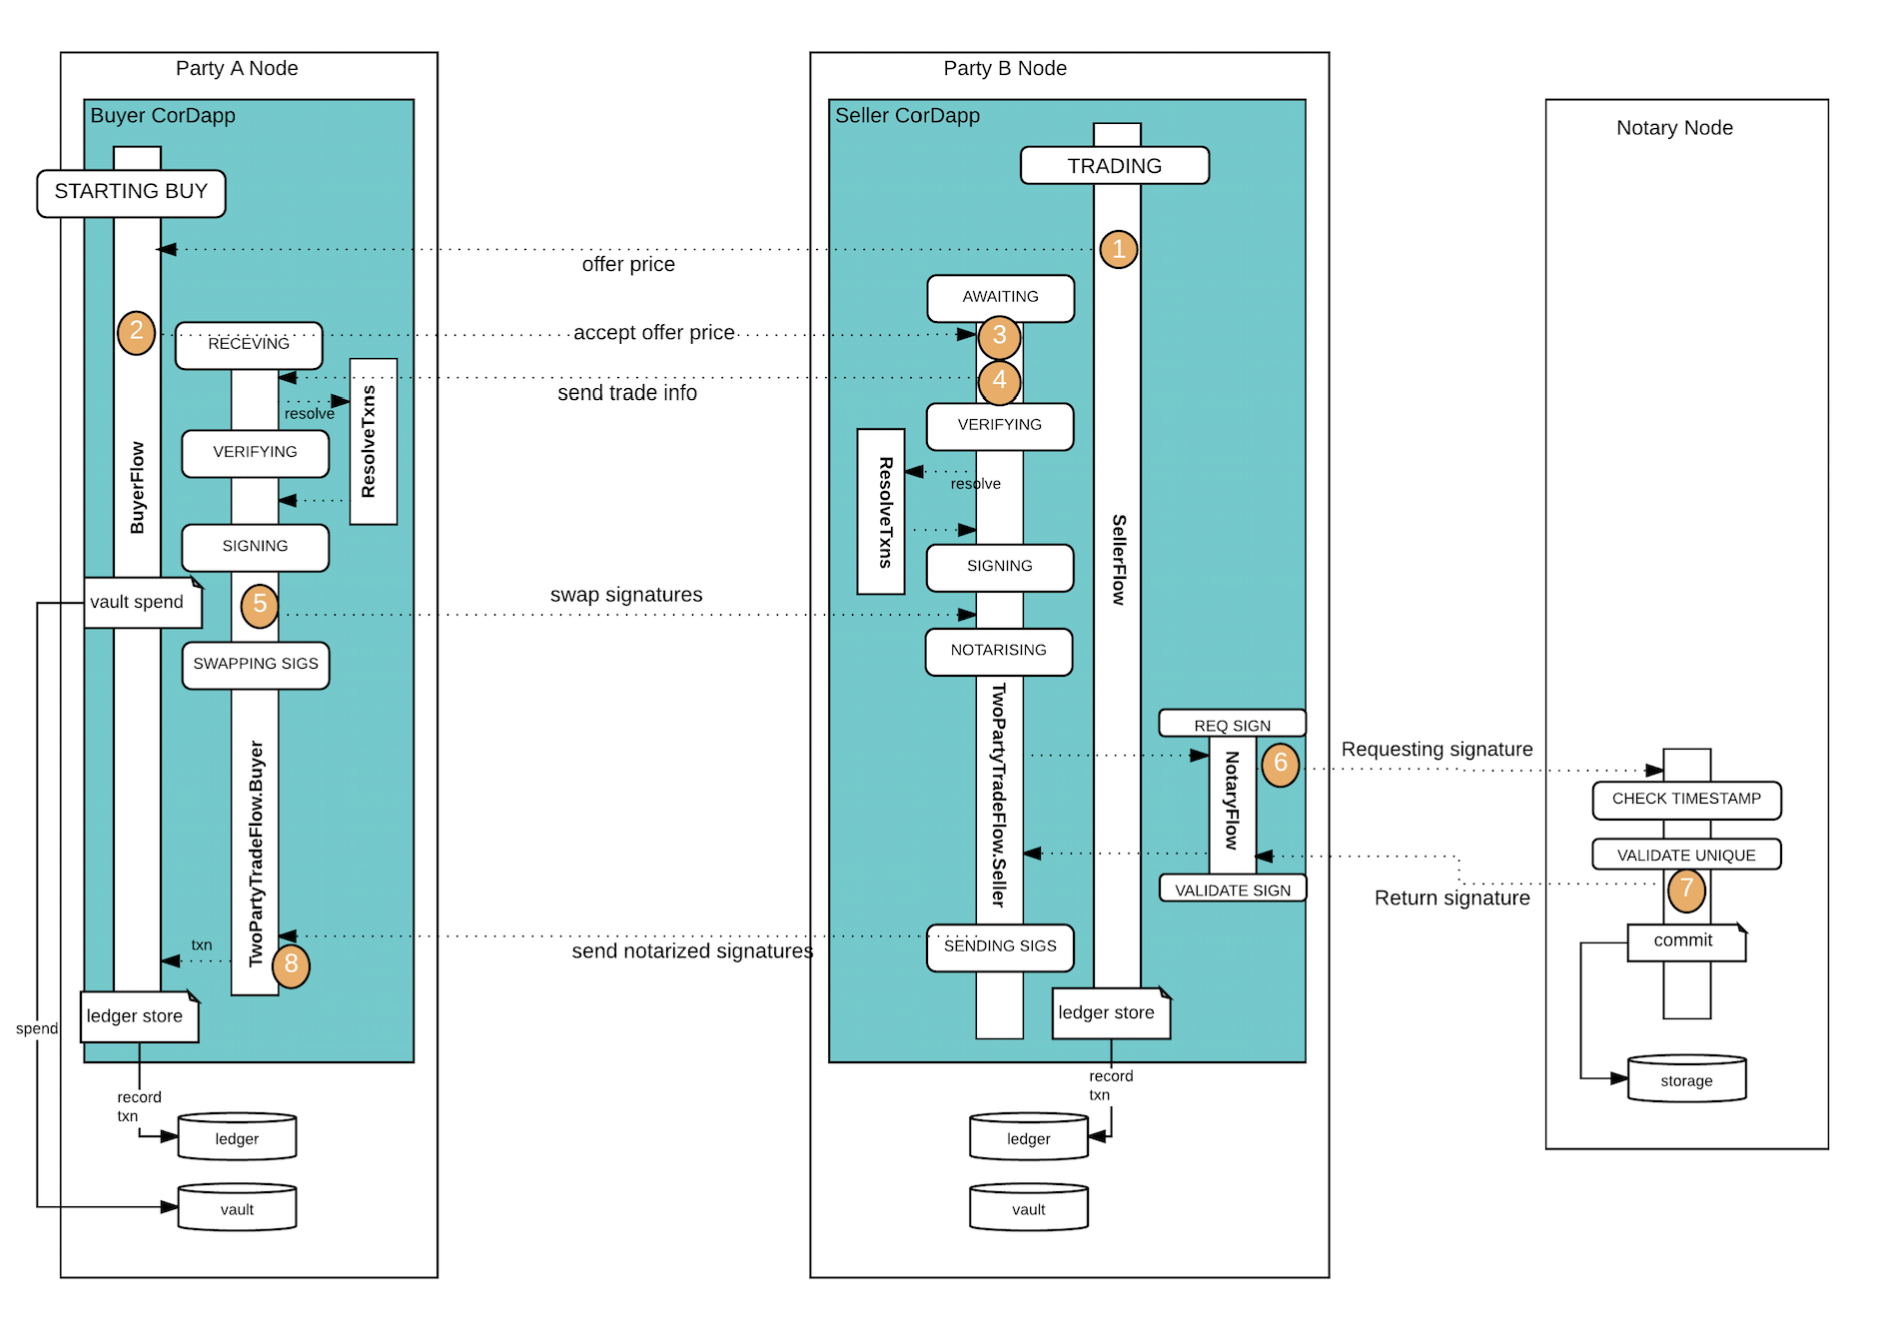
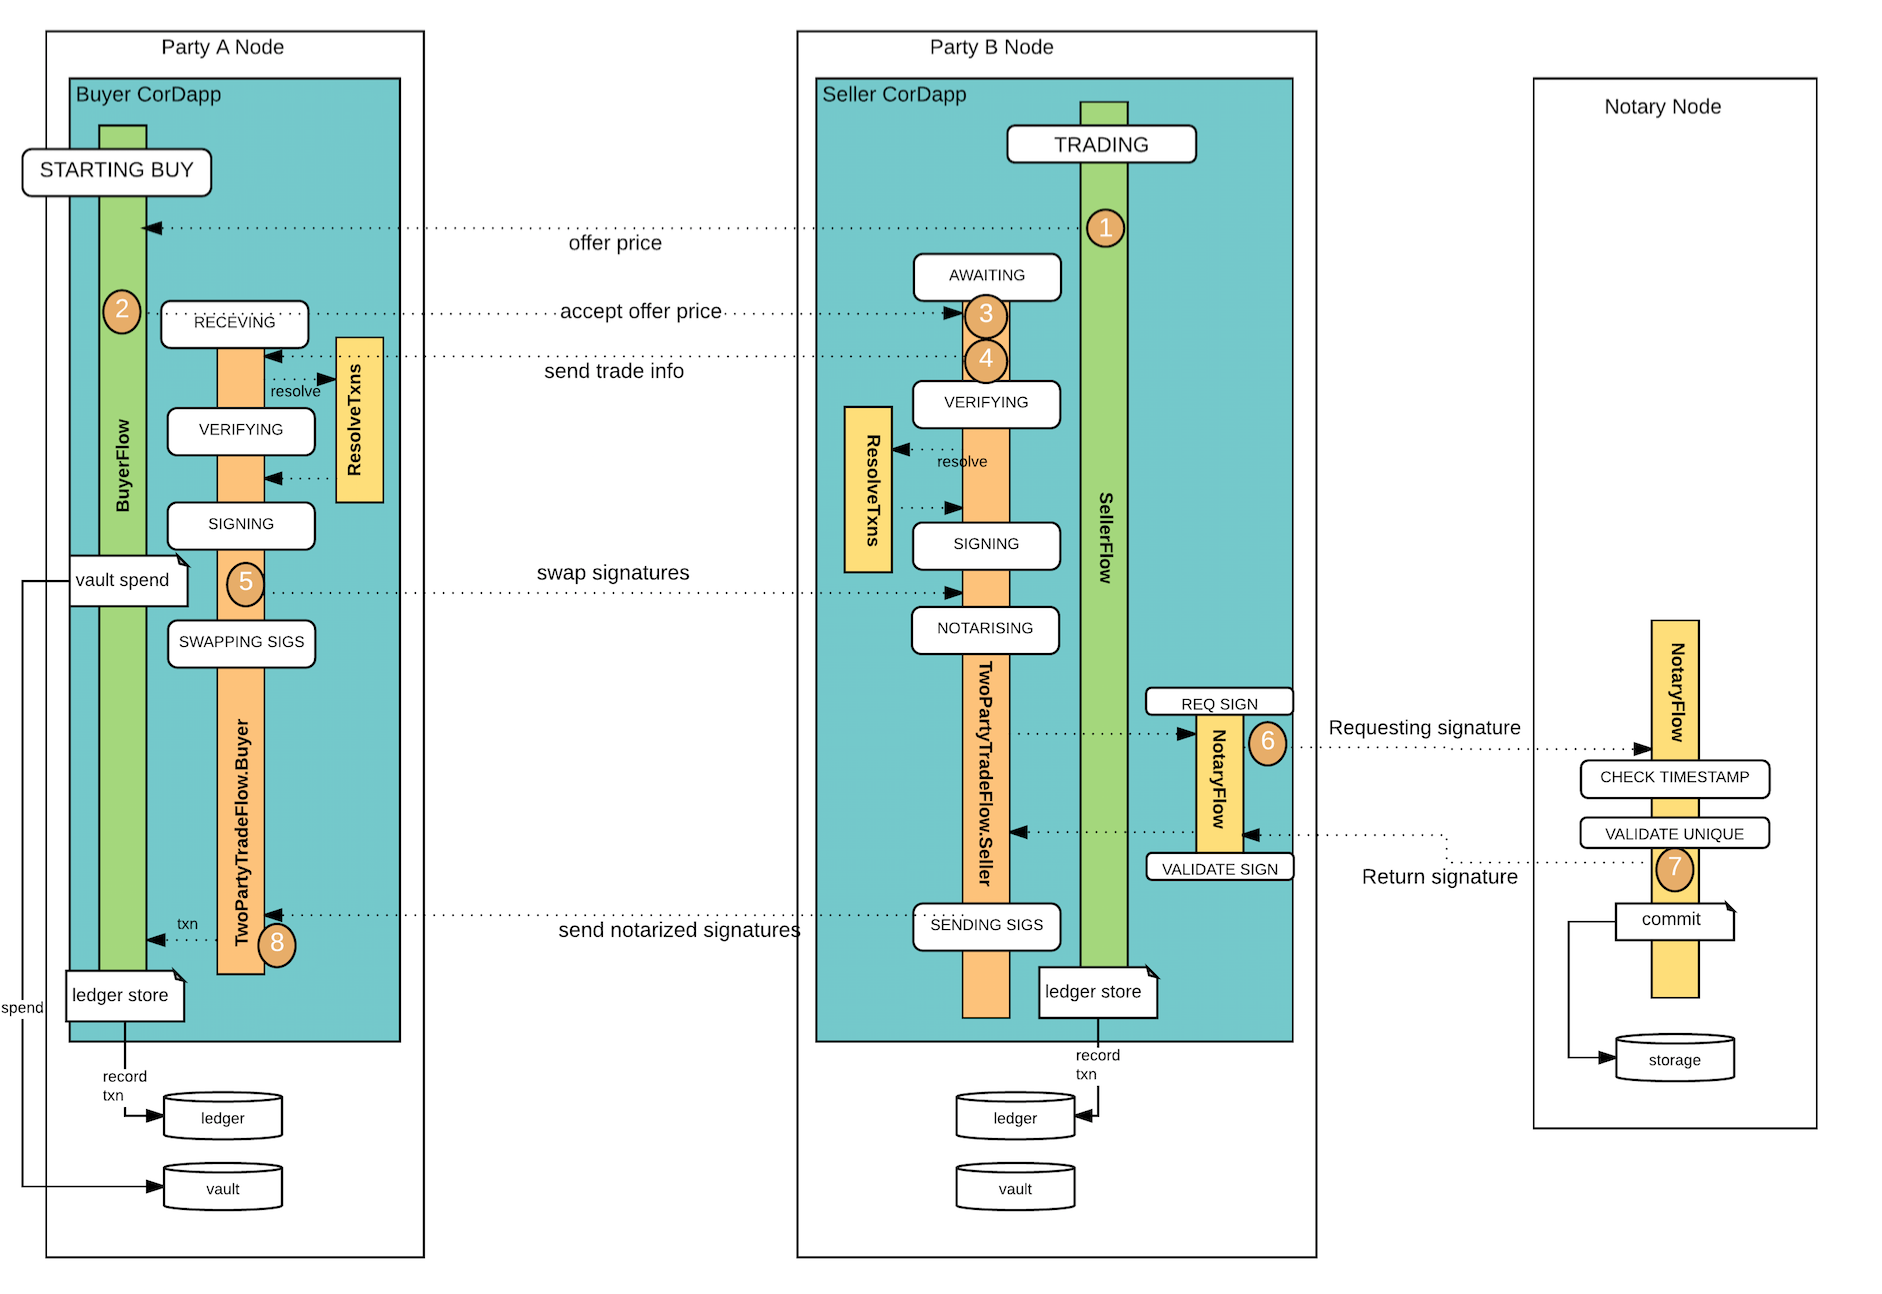
Added colour coding to Flow Framework diagram to aid readibility.

diff --git a/docs/source/key-concepts-flow-framework.rst b/docs/source/key-concepts-flow-framework.rst
@@ -26,8 +26,9 @@ The following diagram illustrates a sample Multi-party Business Flow:
 Note the following:
 
 * there are 3 participants in this workflow including the notary
-* the Buyer and Seller flows are custom written by developers and deployed within a CorDapp
-* the custom written flows invoke both financial library flows (``TwoPartyTradeFlow``) and core library flows (``ResolveTransactionsFlow``, ``NotaryFlow``)
+* the Buyer and Seller flows (depicted in green) are custom written by developers and deployed within a CorDapp
+* the custom written flows invoke both financial library flows such as ``TwoPartyTradeFlow`` (depicted in orange) and core
+  library flows such as ``ResolveTransactionsFlow`` and ``NotaryFlow`` (depicted in yellow)
 * each side of the flow illustrates the stage of execution with a progress tracker notification
 * activities within a flow directly or indirectly interact with its node's ledger (eg. to record a signed, notarised transaction) and vault (eg. to perform a spend of some fungible asset)
 * flows interact across parties using send, receive and sendReceive messaging semantics (by implementing the ``FlowLogic`` interface)
